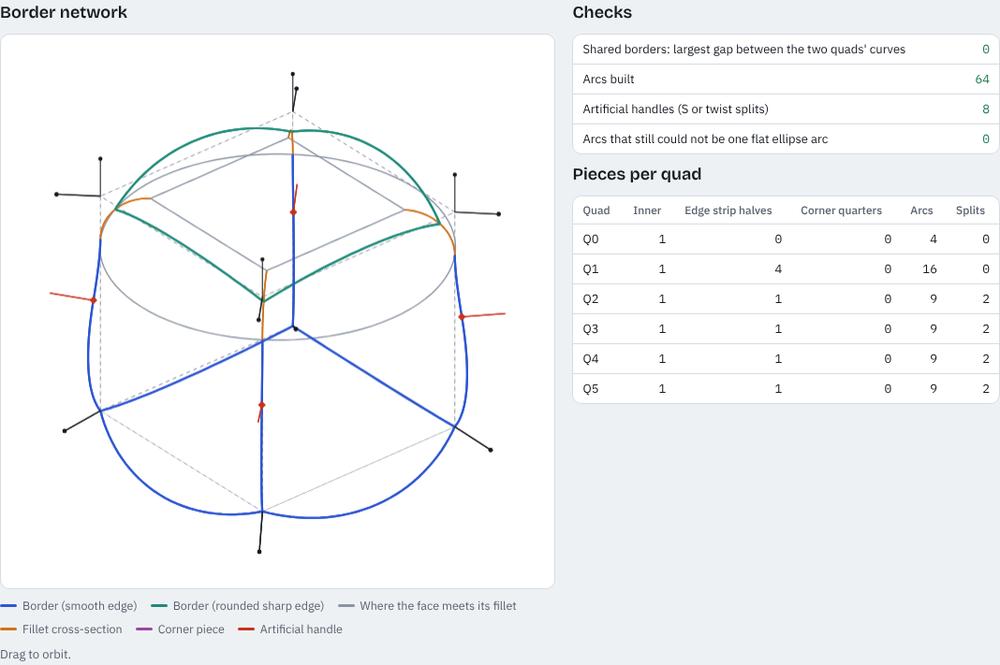
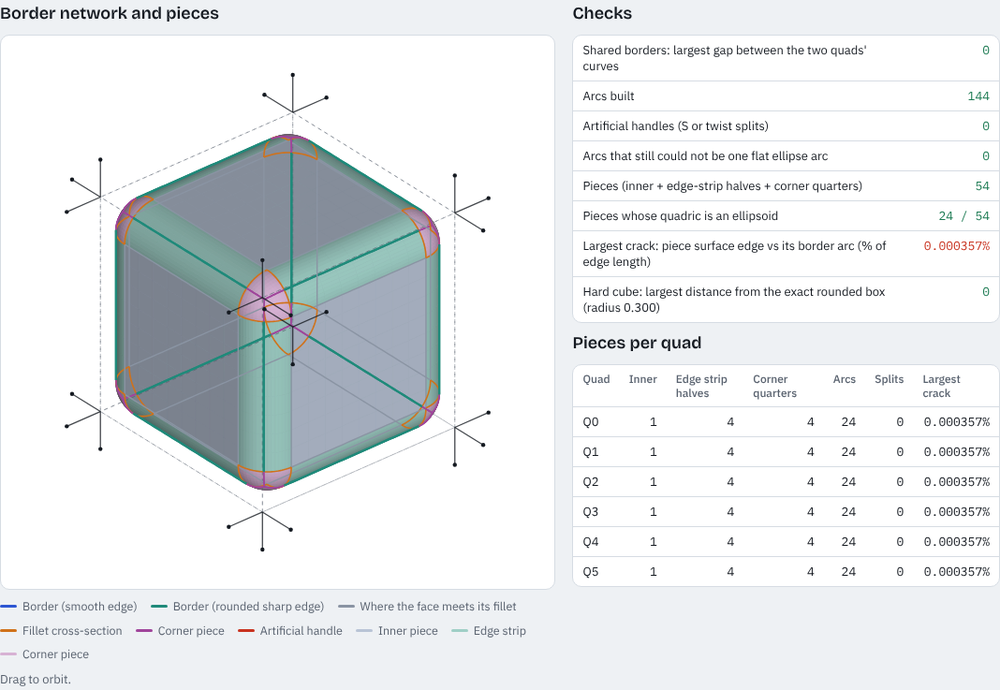
Example 04: fill pieces with one quadric each (step 9b); lab opens in Converted (#14)
Each quad's pieces (inner, edge-strip halves, corner quarters) get one
quadric fitted to their border arcs and corner handles; artificial
handles also split the pieces. Crack = two-way distance between a piece's
surface edge and its border arc. Rounded box, sphere and wave close to the
measurement floor; mixed cube side pieces miss by 36% (border arcs not
compatible with one quadric). Surface lab now defaults to the converted
displacement map. Log, gallery and README updated.

Claude-Session: https://claude.ai/code/session_01JACsrEAfGJwPGrGbmx3fgo

diff --git a/examples/04-handles-arcs.html b/examples/04-handles-arcs.html
@@ -7,13 +7,13 @@
 /* Layout: phone-first. Steps, controls, 3D view + checks; side by side from 900px. Same tokens as the other examples. */
 :root{
   --bg:#eef1f4;--surface:#ffffff;--fg:#151a21;--muted:#59626f;--line:#d6dce3;--accent:#2d56d2;--warn:#c8321f;--good:#1b7a52;
-  --border:#2d56d2;--fillet:#1f8a7a;--contact:#8a94a3;--cross:#d0721a;--corner:#a0459b;--handle:#151a21;--art:#c8321f;
+  --pin:#b9c4d6;--pst:#9fcfc6;--pco:#d7b2d4;--border:#2d56d2;--fillet:#1f8a7a;--contact:#8a94a3;--cross:#d0721a;--corner:#a0459b;--handle:#151a21;--art:#c8321f;
   --f-display:"Bricolage Grotesque",ui-sans-serif,system-ui,sans-serif;
   --f-body:"IBM Plex Sans",ui-sans-serif,system-ui,sans-serif;
   --f-mono:"IBM Plex Mono",ui-monospace,SFMono-Regular,Menlo,monospace;
 }
-@media (prefers-color-scheme:dark){:root:not([data-theme="light"]){--bg:#0e1115;--surface:#161a20;--fg:#e4e8ee;--muted:#98a1ae;--line:#2a313a;--accent:#7f9cff;--warn:#ff5f4a;--good:#5fd0a0;--border:#7f9cff;--fillet:#4fd1bb;--contact:#7d8794;--cross:#f0a050;--corner:#d68ad0;--handle:#e4e8ee;--art:#ff5f4a;color-scheme:dark}}
-:root[data-theme="dark"]{--bg:#0e1115;--surface:#161a20;--fg:#e4e8ee;--muted:#98a1ae;--line:#2a313a;--accent:#7f9cff;--warn:#ff5f4a;--good:#5fd0a0;--border:#7f9cff;--fillet:#4fd1bb;--contact:#7d8794;--cross:#f0a050;--corner:#d68ad0;--handle:#e4e8ee;--art:#ff5f4a;color-scheme:dark}
+@media (prefers-color-scheme:dark){:root:not([data-theme="light"]){--bg:#0e1115;--surface:#161a20;--fg:#e4e8ee;--muted:#98a1ae;--line:#2a313a;--accent:#7f9cff;--warn:#ff5f4a;--good:#5fd0a0;--pin:#4a5568;--pst:#2f6b62;--pco:#6b4569;--border:#7f9cff;--fillet:#4fd1bb;--contact:#7d8794;--cross:#f0a050;--corner:#d68ad0;--handle:#e4e8ee;--art:#ff5f4a;color-scheme:dark}}
+:root[data-theme="dark"]{--pin:#4a5568;--pst:#2f6b62;--pco:#6b4569;--bg:#0e1115;--surface:#161a20;--fg:#e4e8ee;--muted:#98a1ae;--line:#2a313a;--accent:#7f9cff;--warn:#ff5f4a;--good:#5fd0a0;--border:#7f9cff;--fillet:#4fd1bb;--contact:#7d8794;--cross:#f0a050;--corner:#d68ad0;--handle:#e4e8ee;--art:#ff5f4a;color-scheme:dark}
 *,*::before,*::after{box-sizing:border-box}
 body{margin:0;background:var(--bg);color:var(--fg);font-family:var(--f-body);font-size:15px;line-height:1.55}
 .wrap{max-width:1100px;margin:0 auto;padding-inline:16px;padding-block:22px 56px;display:flex;flex-direction:column;gap:22px}
@@ -55,7 +55,7 @@ tr:last-child td{border-bottom:0}
 <a id="back" href="../index.html" hidden style="font:500 13px var(--f-body);color:var(--accent);text-decoration:none">← All steps</a>
 <script>(()=>{const h=location.hostname;if(location.protocol==="file:"||h.endsWith("github.io")||h==="localhost")document.getElementById("back").hidden=false})()</script>
 <header>
-  <div class="eyebrow">Curved quads · step 9a · border network</div>
+  <div class="eyebrow">Curved quads · steps 9a–9b · borders and pieces</div>
   <h1>Handles and Arcs</h1>
 </header>
 
@@ -63,25 +63,25 @@ tr:last-child td{border-bottom:0}
   <li>Every quad corner has a <b>handle</b>: its face-corner normal, not normalized. The direction sets the tangent, and the length sets how far the curve bulges.</li>
   <li>Between two handles runs one <b>ellipse arc</b> (a conic). If the arc would curve back (S) or twist out of a plane, an <b>artificial handle</b> splits it into two arcs.</li>
   <li><b>Sharp edges</b> (different normals on each side) get rounded inside each quad by the <b>blending distance</b>, like a bevel. Each quad computes its own pieces, reading its neighbours' normals only so that shared borders agree.</li>
-  <li>Only the borders are shown here. Filling the pieces comes next (step 9b).</li>
+  <li>Each piece gets <b>one quadric</b>, fitted to its own border arcs and corner handles (step 9b). The <b>crack</b> is the largest gap between the edge of a piece's surface and its border arc. Neighbours share the arcs, so a crack of 0 means no gap.</li>
 </ol>
 
 <section class="ctrls" aria-label="Settings">
   <div class="crow"><span class="clab">Mesh</span><div class="seg" id="g-mesh"><button data-v="0">Smooth cube</button><button data-v="1">Hard cube</button><button data-v="2">Mixed cube</button><button data-v="3">Wave</button></div></div>
   <div class="crow"><span class="clab">Blending</span><div class="slider"><input id="blend" type="range" min="0" max="0.45" step="0.005" value="0.03" aria-label="Blending distance, fraction of edge length"><output id="blendo"></output></div></div>
   <div class="crow"><span class="clab">Normal length</span><div class="seg" id="g-len"><button data-v="0.5">× 0.5</button><button data-v="1">× 1</button><button data-v="1.5">× 1.5</button><button data-v="2">× 2</button></div></div>
-  <div class="crow"><span class="clab">Show</span><div class="seg" id="g-show"><button data-k="handles">Handles</button><button data-k="cage">Cage</button></div></div>
+  <div class="crow"><span class="clab">Show</span><div class="seg" id="g-show"><button data-k="surf">Surfaces</button><button data-k="crackc">Colour by crack</button><button data-k="handles">Handles</button><button data-k="cage">Cage</button></div></div>
   <p class="note">Blending is a fraction of the average edge length at each vertex. Normal length multiplies every source normal, to see how the length changes the bulge.</p>
 </section>
 
 <div class="main">
-  <div class="view"><h2>Border network</h2><canvas id="cv" aria-label="3D view of the arcs between handles. Drag to orbit."></canvas>
-    <div class="legend"><span><span class="ln" style="background:var(--border)"></span>Border (smooth edge)</span><span><span class="ln" style="background:var(--fillet)"></span>Border (rounded sharp edge)</span><span><span class="ln" style="background:var(--contact)"></span>Where the face meets its fillet</span><span><span class="ln" style="background:var(--cross)"></span>Fillet cross-section</span><span><span class="ln" style="background:var(--corner)"></span>Corner piece</span><span><span class="ln" style="background:var(--art)"></span>Artificial handle</span></div>
+  <div class="view"><h2>Border network and pieces</h2><canvas id="cv" aria-label="3D view of the arcs between handles. Drag to orbit."></canvas>
+    <div class="legend"><span><span class="ln" style="background:var(--border)"></span>Border (smooth edge)</span><span><span class="ln" style="background:var(--fillet)"></span>Border (rounded sharp edge)</span><span><span class="ln" style="background:var(--contact)"></span>Where the face meets its fillet</span><span><span class="ln" style="background:var(--cross)"></span>Fillet cross-section</span><span><span class="ln" style="background:var(--corner)"></span>Corner piece</span><span><span class="ln" style="background:var(--art)"></span>Artificial handle</span><span><span class="ln" style="background:var(--pin)"></span>Inner piece</span><span><span class="ln" style="background:var(--pst)"></span>Edge strip</span><span><span class="ln" style="background:var(--pco)"></span>Corner piece</span></div>
     <p class="note">Drag to orbit.</p></div>
   <div class="view"><h2>Checks</h2>
     <div class="tw"><table><tbody id="checks"></tbody></table></div>
     <h2>Pieces per quad</h2>
-    <div class="tw"><table><thead><tr><th>Quad</th><th class="n">Inner</th><th class="n">Edge strip halves</th><th class="n">Corner quarters</th><th class="n">Arcs</th><th class="n">Splits</th></tr></thead><tbody id="qtab"></tbody></table></div>
+    <div class="tw"><table><thead><tr><th>Quad</th><th class="n">Inner</th><th class="n">Edge strip halves</th><th class="n">Corner quarters</th><th class="n">Arcs</th><th class="n">Splits</th><th class="n">Largest crack</th></tr></thead><tbody id="qtab"></tbody></table></div>
     <div class="log" id="log"></div>
   </div>
 </div>
@@ -122,14 +122,59 @@ function arcT(P0,T0,L0,u0,P2,T2,L2,u2,depth){STATS.arcs++;const d=sub(P2,P0),D=l
   const M=add(add(mul(P0,r*r*r),mul(C1,3*r*r*tm)),add(mul(C2,3*r*tm*tm),mul(P2,tm*tm*tm)));
   // its tangent lies in both end planes (P0, T0, M) and (M, T2, P2), so each half is a flat curve and the two halves meet smoothly
   let TM=cross(cross(T0,sub(M,P0)),cross(T2,sub(P2,M)));if(len(TM)<1e-12*D*D*D*D)TM=add(add(mul(sub(C1,P0),r*r),mul(sub(C2,C1),2*r*tm)),mul(sub(P2,C2),tm*tm));if(dot(TM,d)<0)TM=mul(TM,-1);
-  const uM=norm(add(mul(u0,r),mul(u2,tm))),LM=L0*r+L2*tm;STATS.art.push({p:M,n:mul(norm(sub(uM,mul(norm(TM),dot(uM,norm(TM))))),LM)});
-  return arcT(P0,T0,L0,u0,M,TM,LM,uM,1).concat(arcT(M,TM,LM,uM,P2,T2,L2,u2,1))}
+  const uM=norm(add(mul(u0,r),mul(u2,tm))),LM=L0*r+L2*tm,nM=mul(norm(sub(uM,mul(norm(TM),dot(uM,norm(TM))))),LM);STATS.art.push({p:M,n:nM});
+  const h1=arcT(P0,T0,L0,u0,M,TM,LM,uM,1),res=h1.concat(arcT(M,TM,LM,uM,P2,T2,L2,u2,1));res.mid={p:M,n:nM,k:h1.length};return res}
 function evalArc(g,t){if(g.straight)return add(mul(g.P0,1-t),mul(g.P2,t));const r=1-t,b0=r*r,b1=2*g.w*r*t,b2=t*t,s=b0+b1+b2;return mul(add(add(mul(g.P0,b0),mul(g.A,b1)),mul(g.P2,b2)),1/s)}
 const sampleArcs=(segs,n)=>{const out=[];segs.forEach((g,i)=>{for(let k=i?1:0;k<=n;k++)out.push(evalArc(g,k/n))});return out};
 
+// ---------- S rule on pieces: an artificial handle on a side splits the piece too, so each part gets its own ellipsoid ----------
+// Split a single conic exactly at its middle (homogeneous de Casteljau), to give the opposite side a matching point.
+function halveConic(g){if(g.straight){const M=mul(add(g.P0,g.P2),0.5);return[{P0:g.P0,P2:M,straight:true},{P0:M,P2:g.P2,straight:true},M]}
+  const w=g.w,M=evalArc(g,0.5),wn=Math.sqrt((1+w)/2),AL=mul(add(g.P0,mul(g.A,w)),1/(1+w)),AR=mul(add(mul(g.A,w),g.P2),1/(1+w));return[{P0:g.P0,P2:M,A:AL,w:wn},{P0:M,P2:g.P2,A:AR,w:wn},M]}
+function splitSide(sg,hA,hB){// -> {first, second, p, n}; uses the artificial handle if the side has one, else halves the side
+  if(sg.mid)return{first:sg.slice(0,sg.mid.k),second:sg.slice(sg.mid.k),p:sg.mid.p,n:sg.mid.n};
+  if(sg.length!==1)return null;const[a,b,M]=halveConic(sg[0]),e=1e-4,T=norm(sub(evalArc(sg[0],0.5+e),evalArc(sg[0],0.5-e))),u=norm(add(norm(hA),norm(hB))),n=mul(norm(sub(u,mul(T,dot(u,T)))),(len(hA)+len(hB))/2);return{first:[a],second:[b],p:M,n}}
+let UNSUP=0;
+function splitPiece(pc){const S=pc.sides,su=!!(S[0].mid||S[2].mid),sv=!!(S[1].mid||S[3].mid);if(!su&&!sv)return[pc];if(su&&sv){UNSUP++;return[pc]}
+  const h=pc.N;
+  if(su){const a=splitSide(S[0],h[0],h[1]),c=splitSide(S[2],h[2],h[3]);if(!a||!c){UNSUP++;return[pc]}const mid=arc(a.p,a.n,c.p,c.n);
+    return[{kind:pc.kind,P:[pc.P[0],a.p,c.p,pc.P[3]],N:[h[0],a.n,c.n,h[3]],sides:[a.first,mid,c.second,S[3]]},{kind:pc.kind,P:[a.p,pc.P[1],pc.P[2],c.p],N:[a.n,h[1],h[2],c.n],sides:[a.second,S[1],c.first,revArc(mid)]}]}
+  const b=splitSide(S[1],h[1],h[2]),d=splitSide(S[3],h[3],h[0]);if(!b||!d){UNSUP++;return[pc]}const mid=arc(b.p,b.n,d.p,d.n);
+  return[{kind:pc.kind,P:[pc.P[0],pc.P[1],b.p,d.p],N:[h[0],h[1],b.n,d.n],sides:[S[0],b.first,mid,d.second]},{kind:pc.kind,P:[d.p,b.p,pc.P[2],pc.P[3]],N:[d.n,b.n,h[2],h[3]],sides:[revArc(mid),b.second,S[2],d.first]}]}
+const revArc=sg=>sg.slice().reverse().map(g=>g.straight?{P0:g.P2,P2:g.P0,straight:true}:{P0:g.P2,P2:g.P0,A:g.A,w:g.w});
+
+// ---------- 9b: one quadric per piece, fitted to its border arcs ----------
+// Hard: the piece's distinct corners. Soft: points along its 4 border arcs (Q = 0) and its corner handle directions (gradient parallel).
+// Scale fixed by trace(A) = 1. One fixed-size linear solve, no iteration.
+const WARC=1,ARCS=5;
+function fitPiece(pc){const U=[],UN=[];pc.P.forEach((p,i)=>{if(!U.some(u=>len(sub(u,p))<1e-12)){U.push(p);UN.push(pc.N[i])}});
+  const c0=mul(U.reduce((a,b)=>add(a,b),[0,0,0]),1/U.length),sc=U.length/U.reduce((a,u)=>a+len(sub(u,c0)),0)||1,loc=x=>mul(sub(x,c0),sc);
+  const row=x=>[x[0]*x[0],x[1]*x[1],x[2]*x[2],2*x[0]*x[1],2*x[0]*x[2],2*x[1]*x[2],x[0],x[1],x[2],1],grow=(x,t)=>[2*x[0]*t[0],2*x[1]*t[1],2*x[2]*t[2],2*(x[1]*t[0]+x[0]*t[1]),2*(x[2]*t[0]+x[0]*t[2]),2*(x[2]*t[1]+x[1]*t[2]),t[0],t[1],t[2],0];
+  const M=[];UN.forEach((n,i)=>{const u=norm(n),ax=Math.abs(u[0])<0.9?[1,0,0]:[0,1,0],t1=norm(cross(u,ax)),t2=cross(u,t1),L=loc(U[i]);M.push(grow(L,t1),grow(L,t2))});
+  pc.sides.forEach(sg=>{if(!sg.length)return;const pts=sampleArcs(sg,ARCS+1);for(let k=1;k<pts.length-1;k++)M.push(row(loc(pts[k])).map(v=>v*WARC))});
+  const H=U.map(u=>row(loc(u))).concat([[1,1,1,0,0,0,0,0,0,0]]),n=10+H.length,K=[];for(let i=0;i<n;i++)K.push(new Array(n+1).fill(0));
+  for(let i=0;i<10;i++){for(let j=0;j<10;j++){let v=0;M.forEach(r=>v+=r[i]*r[j]);K[i][j]=v+(i===j?1e-9:0)}H.forEach((h,hi)=>{K[i][10+hi]=h[i];K[10+hi][i]=h[i]})}K[n-1][n]=1;
+  for(let c=0;c<n;c++){let p=c;for(let r=c+1;r<n;r++)if(Math.abs(K[r][c])>Math.abs(K[p][c]))p=r;[K[c],K[p]]=[K[p],K[c]];if(Math.abs(K[c][c])<1e-300)continue;for(let r=0;r<n;r++)if(r!==c){const f=K[r][c]/K[c][c];if(f)for(let k=c;k<=n;k++)K[r][k]-=f*K[c][k]}}
+  const q=K.slice(0,10).map((r,i)=>r[n]/r[i]),A=[[q[0],q[3],q[4]],[q[3],q[1],q[5]],[q[4],q[5],q[2]]],g=[q[6],q[7],q[8]],k=q[9];
+  const Ax=x=>[dot(A[0],x),dot(A[1],x),dot(A[2],x)],Qf=x=>dot(x,Ax(x))+dot(g,x)+k,grad=x=>add(mul(Ax(x),2),g),det=dot(A[0],cross(A[1],A[2])),m1=A[0][0],m2=A[0][0]*A[1][1]-A[0][1]*A[0][1];
+  let cen=null;if(Math.abs(det)>1e-9){const inv=[cross(A[1],A[2]),cross(A[2],A[0]),cross(A[0],A[1])].map(r=>mul(r,1/det));cen=mul([dot(inv[0],g),dot(inv[1],g),dot(inv[2],g)],-0.5)}
+  const qc=cen?Qf(cen):0,ell=!!cen&&((m1>0&&m2>0&&det>0)||(m1<0&&m2>0&&det<0))&&qc*m1<0,dir=norm(UN.reduce((a,b)=>add(a,norm(b)),[0,0,0]));
+  const LP=pc.P.map(loc);let miss=0;
+  // piece point: bilinear base of its 4 corners, pushed onto the quadric (from the centre for an ellipsoid, else along the averaged handle direction)
+  pc.eval=(u,v)=>{const w=[(1-u)*(1-v),u*(1-v),u*v,(1-u)*v];let p=[0,0,0];for(let i=0;i<4;i++)p=add(p,mul(LP[i],w[i]));let X=p;
+    if(ell){const d=sub(p,cen),a=dot(d,Ax(d)),r=-qc/a;if(a!==0&&r>0)X=add(cen,mul(d,Math.sqrt(r)));else miss++}
+    else{const a=dot(dir,Ax(dir)),b=dot(grad(p),dir),c=Qf(p);let t=null;if(Math.abs(c)<1e-12)t=0;else if(Math.abs(a)<1e-12){if(Math.abs(b)>1e-15)t=-c/b;else if(Math.abs(c)<1e-12)t=0}else{let D=b*b-4*a*c;if(D<0&&D>-1e-9*(b*b+1e-30))D=0;if(D>=0){const r1=(-b+Math.sqrt(D))/(2*a),r2=(-b-Math.sqrt(D))/(2*a);t=Math.abs(r1)<Math.abs(r2)?r1:r2}}if(t===null)miss++;else X=add(p,mul(dir,t))}
+    return add(c0,mul(X,1/sc))};
+  pc.ell=ell;pc.missCount=()=>miss;
+  // crack: two-way distance between each side of the piece's surface and its border arc
+  let crack=0;const segDist=(p,a,b)=>{const ab=sub(b,a),t=Math.max(0,Math.min(1,dot(sub(p,a),ab)/(dot(ab,ab)||1)));return len(sub(p,add(a,mul(ab,t))))},polyDist=(p,pl)=>{let m=1e9;for(let i=1;i<pl.length;i++)m=Math.min(m,segDist(p,pl[i-1],pl[i]));return m};
+  const sidePt=(k,t)=>k===0?pc.eval(t,0):k===1?pc.eval(1,t):k===2?pc.eval(1-t,1):pc.eval(0,1-t);
+  pc.sides.forEach((sg,kk)=>{if(!sg.length)return;const A1=sampleArcs(sg,400),B=[];for(let i=0;i<=200;i++)B.push(sidePt(kk,i/200));B.forEach(p=>crack=Math.max(crack,polyDist(p,A1)));A1.forEach(p=>crack=Math.max(crack,polyDist(p,B)))});
+  pc.crack=crack}
+
 // ---------- the per-quad network ----------
 const key=p=>p.map(x=>Math.round(x*1e6)).join(',');
-function build(Q,beta){STATS={arcs:0,splits:0,fail:0,art:[]};
+function build(Q,beta){STATS={arcs:0,splits:0,fail:0,art:[]};UNSUP=0;
   const vtx=new Map(),edges=new Map();
   Q.forEach((q,qi)=>{for(let i=0;i<4;i++){const k=key(q.x[i]);if(!vtx.has(k))vtx.set(k,{X:q.x[i],corners:[],nbr:new Set()});vtx.get(k).corners.push({qi,i});const j=(i+1)%4,ka=key(q.x[i]),kb=key(q.x[j]);vtx.get(k).nbr.add(kb);const ek=ka<kb?ka+'|'+kb:kb+'|'+ka;if(!edges.has(ek))edges.set(ek,[]);edges.get(ek).push({qi,i})}});
   Q.forEach(q=>{for(let i=0;i<4;i++){const j=(i+3)%4;vtx.get(key(q.x[i])).nbr.add(key(q.x[j]))}});
@@ -148,32 +193,49 @@ function build(Q,beta){STATS={arcs:0,splits:0,fail:0,art:[]};
   const endInfo=(qi,i,j,atI)=>{const q=Q[qi],c=atI?i:j,V=vtx.get(key(q.x[c])),nA=q.n[c],nB=nbAt(qi,i,j,atI),uA=norm(nA),contact=V.k<=1?q.x[c]:add(V.c,mul(uA,V.r));
     if(nB&&!same(nA,nB)){const uB=norm(nB),m=norm(add(uA,uB));return{sharp:true,p:add(V.c,mul(m,V.r)),n:mul(m,(len(nA)+len(nB))/2),contact,nA,V}}
     return{sharp:false,p:contact,n:nA,contact,nA,V}};
-  const out=Q.map((q,qi)=>{const P={qi,border:[],contact:[],cross:[],corner:[],inner:1,strips:0,corners:0};
-    for(let i=0;i<4;i++){const j=(i+1)%4,a=endInfo(qi,i,j,true),b=endInfo(qi,i,j,false);
-      P.border.push({segs:arc(a.p,a.n,b.p,b.n),sharp:a.sharp||b.sharp,i});
-      if(a.sharp||b.sharp){P.strips++;P.contact.push(arc(a.contact,a.nA,b.contact,b.nA));if(a.sharp)P.cross.push(arc(a.contact,a.nA,a.p,a.n));if(b.sharp)P.cross.push(arc(b.contact,b.nA,b.p,b.n))}}
-    // corner quarters: from each sharp edge end at this corner to the vertex's corner point
-    for(let i=0;i<4;i++){const j=(i+1)%4,h=(i+3)%4,a=endInfo(qi,i,j,true),z=endInfo(qi,h,i,false);if(a.V.k<3)continue;let any=false;
-      [a,z].forEach(e=>{if(e.sharp&&len(sub(e.p,e.V.corner))>1e-12){P.corner.push(arc(e.p,e.n,e.V.corner,e.V.cornerN));any=true}});if(any)P.corners++}
+  const rev=sg=>{const r=sg.slice().reverse().map(g=>g.straight?{P0:g.P2,P2:g.P0,straight:true,fail:g.fail}:{P0:g.P2,P2:g.P0,A:g.A,w:g.w});if(sg.mid)r.mid={p:sg.mid.p,n:sg.mid.n,k:sg.length-sg.mid.k};return r};
+  const out=Q.map((q,qi)=>{const P={qi,border:[],contact:[],cross:[],corner:[],pieces:[],inner:1,strips:0,corners:0};
+    const E=[],C=[];for(let i=0;i<4;i++){const j=(i+1)%4;E.push({a:endInfo(qi,i,j,true),b:endInfo(qi,i,j,false)})}
+    // arcs, built once and shared by the pieces that touch them
+    E.forEach((e,i)=>{const{a,b}=e;e.border=arc(a.p,a.n,b.p,b.n);P.border.push({segs:e.border,sharp:a.sharp||b.sharp,i});e.sharp=a.sharp||b.sharp;
+      e.contact=e.sharp?arc(a.contact,a.nA,b.contact,b.nA):e.border;if(e.sharp)P.contact.push(e.contact);
+      e.crossA=a.sharp?arc(a.contact,a.nA,a.p,a.n):[];e.crossB=b.sharp?arc(b.contact,b.nA,b.p,b.n):[];if(a.sharp)P.cross.push(e.crossA);if(b.sharp)P.cross.push(e.crossB)});
+    // inner piece: the four contact points, bounded by contact arcs (sharp edges) or the border (smooth edges)
+    P.pieces.push({kind:0,P:E.map(e=>e.a.contact),N:E.map(e=>e.a.nA),sides:E.map(e=>e.contact)});
+    // edge strip half: between this face's contact arc and the shared border
+    E.forEach(e=>{if(!e.sharp)return;P.strips++;const{a,b}=e;P.pieces.push({kind:1,P:[a.p,b.p,b.contact,a.contact],N:[a.n,b.n,b.nA,a.nA],sides:[e.border,rev(e.crossB),rev(e.contact),e.crossA]})});
+    // corner quarter: contact point, the two edge ends at this corner, and the vertex's corner point
+    for(let i=0;i<4;i++){const h=(i+3)%4,a=E[i].a,z=E[h].b,V=a.V;if(V.k<3)continue;
+      const toC=e=>len(sub(e.p,V.corner))>1e-12?arc(e.p,e.n,V.corner,V.cornerN):[],ca=toC(a),cz=toC(z);if(!ca.length&&!cz.length)continue;
+      if(ca.length)P.corner.push(ca);if(cz.length)P.corner.push(cz);P.corners++;
+      P.pieces.push({kind:2,P:[a.contact,a.p,V.corner,z.p],N:[a.nA,a.n,V.cornerN,z.n],sides:[E[i].crossA,ca,rev(cz),rev(E[h].crossB)]})}
+    P.pieces=P.pieces.filter(pc=>new Set(pc.P.map(key)).size>=3).flatMap(splitPiece);
+    P.pieces.forEach(pc=>{pc.qi=qi;fitPiece(pc)});
     return P});
   // check: both quads on an edge must produce the same border curve
   let mis=0;edges.forEach(l=>{if(l.length!==2)return;const[A,B]=l,pa=sampleArcs(out[A.qi].border[A.i].segs,16),pb=sampleArcs(out[B.qi].border[B.i].segs,16).reverse();if(pa.length!==pb.length){mis=Math.max(mis,Infinity);return}pa.forEach((p,k)=>mis=Math.max(mis,len(sub(p,pb[k]))))});
-  return{out,vtx,mis,stats:STATS}}
+  let el=0,ec=0;Q.forEach(q=>{for(let i=0;i<4;i++){el+=len(sub(q.x[(i+1)%4],q.x[i]));ec++}});
+  return{out,vtx,mis,stats:STATS,edgeLen:el/ec}}
 
 // rounded-box check for the hard cube: every network point should lie on the exact rounded box
 function roundedBoxDist(p,r){const h=1-r,q=p.map(x=>Math.abs(x)-h),o=Math.hypot(Math.max(q[0],0),Math.max(q[1],0),Math.max(q[2],0));return o+Math.min(Math.max(q[0],q[1],q[2]),0)-r}
 
 // ---------- view ----------
-let st={mesh:1,beta:0.03,lm:1,handles:true,cage:true,yaw:0.7,pitch:0.55},R=null;
+let st={mesh:1,beta:0.03,lm:1,handles:true,cage:true,surf:true,crackc:false,yaw:0.7,pitch:0.55},R=null;
 try{const s=JSON.parse(localStorage.getItem('ha')||'null');if(s)Object.assign(st,s)}catch(e){}
 const save=()=>{try{localStorage.setItem('ha',JSON.stringify(st))}catch(e){}};
 const cv=document.getElementById('cv'),ctx=cv.getContext('2d');let C={};
-function readC(){const g=getComputedStyle(document.documentElement);['fg','muted','line','border','fillet','contact','cross','corner','handle','art','surface'].forEach(k=>C[k]=g.getPropertyValue('--'+k).trim())}
+function readC(){const g=getComputedStyle(document.documentElement);['fg','muted','line','border','fillet','contact','cross','corner','handle','art','surface','pin','pst','pco','good','warn'].forEach(k=>C[k]=g.getPropertyValue('--'+k).trim())}
 function run(){try{const Q=source(st.mesh).map(q=>({x:q.x,n:q.n.map(n=>mul(n,st.lm))}));R=build(Q,st.beta);R.Q=Q;draw();checks()}catch(e){log('ERROR '+(e.stack||e),true)}}
 function draw(){const dp=window.devicePixelRatio||1,W=Math.round(cv.clientWidth*dp);if(!W)return;if(cv.width!==W){cv.width=W;cv.height=W}ctx.clearRect(0,0,W,W);
   const cy=Math.cos(st.yaw),sy=Math.sin(st.yaw),cp=Math.cos(st.pitch),sp=Math.sin(st.pitch),s=W/(st.mesh===3?5.2:4.4);
   const P=p=>{const x=p[0]*cy-p[1]*sy,y1=p[0]*sy+p[1]*cy,z=p[2];return[W/2+x*s,W/2-(y1*sp+z*cp)*s]};
   const poly=(pts,col,lw,alpha=1)=>{if(pts.length<2)return;ctx.globalAlpha=alpha;ctx.strokeStyle=col;ctx.lineWidth=lw*dp;ctx.beginPath();pts.forEach((p,i)=>{const q=P(p);i?ctx.lineTo(q[0],q[1]):ctx.moveTo(q[0],q[1])});ctx.stroke();ctx.globalAlpha=1};
+  if(st.surf){const rgb=h=>{h=h.replace('#','');return[0,2,4].map(i=>parseInt(h.slice(i,i+2),16))},base=[rgb(C.pin),rgb(C.pst),rgb(C.pco)],good=rgb(C.good),bad=rgb(C.warn),Lt=norm([-0.4,-0.8,0.5]),cyR=Math.cos(st.yaw),syR=Math.sin(st.yaw),depth=p=>{const y1=p[0]*syR+p[1]*cyR;return y1*Math.cos(st.pitch)-p[2]*Math.sin(st.pitch)},tris=[],G=8;
+    R.out.forEach(o=>o.pieces.forEach(pc=>{const pts=[];for(let j=0;j<=G;j++){pts[j]=[];for(let i=0;i<=G;i++)pts[j][i]=pc.eval(i/G,j/G)}
+      const t=Math.min(1,pc.crack/(0.01*R.edgeLen)),cc=st.crackc?good.map((v,k)=>v+(bad[k]-v)*t):base[pc.kind];
+      for(let j=0;j<G;j++)for(let i=0;i<G;i++){const q=[pts[j][i],pts[j][i+1],pts[j+1][i+1],pts[j+1][i]],nn=norm(cross(sub(q[2],q[0]),sub(q[3],q[1]))),sh=0.45+0.55*Math.abs(dot(nn,Lt));tris.push({q,z:q.reduce((a,p)=>a+depth(p),0)/4,col:'rgb('+cc.map(v=>Math.round(v*sh)).join(',')+')'})}}));
+    tris.sort((a,b)=>b.z-a.z);tris.forEach(t=>{ctx.fillStyle=t.col;ctx.strokeStyle=t.col;ctx.lineWidth=0.6;ctx.beginPath();t.q.forEach((p,i)=>{const s2=P(p);i?ctx.lineTo(s2[0],s2[1]):ctx.moveTo(s2[0],s2[1])});ctx.closePath();ctx.fill();ctx.stroke()})}
   if(st.cage){ctx.setLineDash([4*dp,4*dp]);R.Q.forEach(q=>poly(q.x.concat([q.x[0]]),C.muted,1,0.45));ctx.setLineDash([])}
   R.out.forEach(o=>{o.contact.forEach(sg=>poly(sampleArcs(sg,24),C.contact,1.4));o.cross.forEach(sg=>poly(sampleArcs(sg,16),C.cross,1.6));o.corner.forEach(sg=>poly(sampleArcs(sg,16),C.corner,1.6));o.border.forEach(b=>poly(sampleArcs(b.segs,32),b.sharp?C.fillet:C.border,2.2))});
   if(st.handles){R.Q.forEach(q=>q.x.forEach((x,i)=>{const t=add(x,mul(q.n[i],0.35));poly([x,t],C.handle,1.3,0.8);const e=P(t);ctx.fillStyle=C.handle;ctx.beginPath();ctx.arc(e[0],e[1],2.2*dp,0,7);ctx.fill()}));
@@ -181,10 +243,15 @@ function draw(){const dp=window.devicePixelRatio||1,W=Math.round(cv.clientWidth*
 function checks(){const rows=[],fmt=x=>x===Infinity?'shape mismatch':x<1e-12?'0':x.toExponential(2),S=R.stats;
   rows.push(['Shared borders: largest gap between the two quads\' curves',fmt(R.mis),R.mis<1e-9]);
   rows.push(['Arcs built',S.arcs,true]);rows.push(['Artificial handles (S or twist splits)',S.splits,true]);rows.push(['Arcs that still could not be one flat ellipse arc',S.fail,S.fail===0]);
+  const pcs=R.out.flatMap(o=>o.pieces),mc=Math.max(...pcs.map(p=>p.crack)),pct=100*mc/R.edgeLen,misses=pcs.reduce((a,p)=>a+p.missCount(),0);
+  rows.push(['Pieces (inner + edge-strip halves + corner quarters)',pcs.length,true]);rows.push(['Pieces whose quadric is an ellipsoid',pcs.filter(p=>p.ell).length+' / '+pcs.length,true]);
+  rows.push(['Largest crack: piece surface edge vs its border arc (% of edge length)',pct<1e-7?'0':pct.toPrecision(3)+'%',pct<1e-6]);
+  if(misses)rows.push(['Surface points where the push missed the quadric',misses,false]);
+  if(UNSUP)rows.push(['Pieces that needed a split both ways (not supported yet)',UNSUP,false]);
   if(st.mesh===1){let mx=0;const r=2*st.beta;R.out.forEach(o=>[...o.border.map(b=>b.segs),...o.contact,...o.cross,...o.corner].forEach(sg=>sampleArcs(sg,24).forEach(p=>mx=Math.max(mx,Math.abs(roundedBoxDist(p,r))))));rows.push(['Hard cube: largest distance from the exact rounded box (radius '+r.toFixed(3)+')',fmt(mx),mx<1e-9])}
   if(st.mesh===0){let mx=0;R.out.forEach(o=>o.border.forEach(b=>sampleArcs(b.segs,24).forEach(p=>mx=Math.max(mx,Math.abs(len(p)-Math.sqrt(3))))));rows.push(['Smooth cube: largest distance of the borders from the sphere of radius √3',fmt(mx),mx<1e-9])}
   document.getElementById('checks').innerHTML=rows.map(r=>'<tr><td>'+r[0]+'</td><td class="n '+(r[2]?'ok':'bad')+'">'+r[1]+'</td></tr>').join('');
-  document.getElementById('qtab').innerHTML=R.out.map(o=>'<tr><td>Q'+o.qi+'</td><td class="n">'+o.inner+'</td><td class="n">'+o.strips+'</td><td class="n">'+o.corners+'</td><td class="n">'+[...o.border.map(b=>b.segs),...o.contact,...o.cross,...o.corner].reduce((a,sg)=>a+sg.length,0)+'</td><td class="n">'+o.border.reduce((a,b)=>a+Math.max(0,b.segs.length-1),0)+'</td></tr>').join('')}
+  document.getElementById('qtab').innerHTML=R.out.map(o=>'<tr><td>Q'+o.qi+'</td><td class="n">'+o.inner+'</td><td class="n">'+o.strips+'</td><td class="n">'+o.corners+'</td><td class="n">'+[...o.border.map(b=>b.segs),...o.contact,...o.cross,...o.corner].reduce((a,sg)=>a+sg.length,0)+'</td><td class="n">'+o.border.reduce((a,b)=>a+Math.max(0,b.segs.length-1),0)+'</td><td class="n">'+(()=>{const c=100*Math.max(...o.pieces.map(p=>p.crack))/R.edgeLen;return c<1e-7?'0':c.toPrecision(3)+'%'})()+'</td></tr>').join('')}
 
 // controls
 function seg(id,k){const g=document.getElementById(id),bs=[...g.querySelectorAll('button')],sync=()=>bs.forEach(b=>b.classList.toggle('on',String(st[k])===b.dataset.v));bs.forEach(b=>b.onclick=()=>{st[k]=+b.dataset.v;sync();save();run()});sync()}

diff --git a/examples/00-curved-quad-lab.html b/examples/00-curved-quad-lab.html
@@ -75,7 +75,7 @@ dt{color:var(--muted)}dd{margin:0;min-width:0}
   <p class="note">Target = Catmull-Clark level 4 plus a stand-in baked map (2×2 bumps per quad, zero along quad edges) pushed along the subdivided surface's normal. <b>Map as baked</b> applies that scalar map to each base along its own normal. <b>Converted</b> adds the vector map (target − base at the same UV). Error = distance to the target as % of the average cage edge. Drag a view to rotate all four.</p>
   <div class="ctrls">
     <div class="seg" role="group" aria-label="Mesh"><button id="sc" class="on">Cube</button><button id="sw">Wave</button></div>
-    <div class="seg" role="group" aria-label="Displacement"><button id="m0">No map</button><button id="m1" class="on">Map as baked</button><button id="m2">Converted</button></div>
+    <div class="seg" role="group" aria-label="Displacement"><button id="m0">No map</button><button id="m1">Map as baked</button><button id="m2" class="on">Converted</button></div>
     <div class="seg" role="group" aria-label="Cage"><button id="cg" class="on">Cage on</button></div>
   </div>
   <div class="grid">
@@ -388,7 +388,7 @@ function edgeLen(m){let s=0,c=0;m.f.forEach(q=>{for(let k=0;k<4;k++){s+=len(sub(
 function build(m){const TG=truth(m),L=edgeLen(m),A=0.12*L,d=(u,v)=>A*Math.sin(2*Math.PI*u)*Math.sin(2*Math.PI*v),N=vnorm(m);const res=[];
 for(let mode=0;mode<3;mode++){res[mode]=[];for(let t=0;t<6;t++){const quads=[],qi=[];let mx=0,sm=0,ct=0;m.f.forEach((q,fi)=>{const X=q.map(i=>m.v[i]),Nn=q.map(i=>N[i]);const ev=t===0?nagata(X,Nn):t===1?phong(X,Nn):t===2?pn(X,Nn):t===4?quadric(X,Nn,pn(X,Nn)(0.5,0.5)):t===5?quadricS(X,Nn):null;if(ev&&ev.info)qi.push(ev.info);const G=[];for(let j=0;j<=R;j++){G[j]=[];for(let i=0;i<=R;i++){const u=i/R,v=j/R,tr=TG[fi][j][i],T=add(tr.x,mul(tr.n,d(u,v)));let P;if(t===3)P=mode===0?tr.x:T;else if(mode===2)P=T;else{const B=ev(u,v);if(mode===0)P=B;else{const h=1e-3,n=norm(cross(sub(ev(u+h,v),ev(u-h,v)),sub(ev(u,v+h),ev(u,v-h))));P=add(B,mul(n,d(u,v)))}}const e=len(sub(P,T))/L*100;mx=Math.max(mx,e);sm+=e;ct++;G[j][i]=P}}for(let j=0;j<R;j++)for(let i=0;i<R;i++)quads.push([G[j][i],G[j][i+1],G[j+1][i+1],G[j+1][i]])});res[mode][t]={q:quads,mx,mean:sm/ct,qi}}res[mode][6]=mode===2?{...res[mode][5],qi:[]}:trimBuild(m,mode,TG,L,d)}return res}
 const COL=[[29,158,117],[127,119,221],[216,90,48],[212,83,126],[58,134,200],[176,125,18],[46,139,122]];
-let yaw=0.6,pitch=0.5,cage=true,mode=1,mesh=cube(),RES=build(mesh);const cvs=[0,1,2,3,4,5,6].map(i=>document.getElementById('c'+i));
+let yaw=0.6,pitch=0.5,cage=true,mode=2,mesh=cube(),RES=build(mesh);const cvs=[0,1,2,3,4,5,6].map(i=>document.getElementById('c'+i));
 function stats(){for(let t=0;t<7;t++){const r=RES[mode][t];let x='';if(r.qi.length){const pc=r.qi.reduce((s,i)=>s+(i.pieces||1),0),sp=r.qi.filter(i=>i.pieces>1).length,e=r.qi.reduce((s,i)=>s+(i.ellN??(i.ell?1:0)),0),a=Math.max(...r.qi.map(i=>i.ang)),ms=r.qi.reduce((s,i)=>s+i.miss,0);x=(t===5?' · '+sp+' quads split → '+pc+' pieces':'')+' · normals off ≤ '+a.toFixed(1)+'° · '+e+'/'+pc+' ellipsoids'+(ms?' · '+ms+' misses':'')}if(r.trim){const T=r.trim;x=' · '+T.pieces+' pieces, '+T.shared+' shared sides, '+T.open+' open · '+(100*T.lost/T.total).toFixed(1)+'% of grid owned by a neighbour · '+T.edgeHits+' margin hits'}else if(t===6)x=' · converted map ignores the base'
 document.getElementById('e'+t).textContent='Error max '+r.mx.toFixed(1)+'% · mean '+r.mean.toFixed(1)+'%'+x}}
 function render(){const cy=Math.cos(yaw),sy=Math.sin(yaw),cp=Math.cos(pitch),sp=Math.sin(pitch);const rot=p=>{const x=p[0]*cy-p[1]*sy,y1=p[0]*sy+p[1]*cy,z=p[2];return[x,y1*cp-z*sp,y1*sp+z*cp]};const Lt=norm([-0.4,-0.8,0.5]);const fg=getComputedStyle(document.body).color;

diff --git a/index.html b/index.html
@@ -104,7 +104,7 @@ code{font-family:var(--f-mono);font-size:.92em}
   <li><span class="num">8–9</span><div class="body">
     <h2>Handles and arcs <span class="tag current">current</span></h2>
     <p class="q">Normals as handles (direction = tangent, length = bulge), one ellipse arc between every two handles, sharp edges rounded inside each quad.</p>
-    <ul class="find"><li>Shared borders match exactly on every edge.</li><li>Hard cube → an exact rounded box. Smooth cube → arcs exactly on the sphere.</li><li>S-curves and twists split at an artificial handle, with 0 failures.</li><li>Next: fill each piece with an ellipsoid that follows its arcs.</li></ul>
+    <ul class="find"><li>Shared borders match exactly on every edge.</li><li>Hard cube → an exact rounded box. Smooth cube → arcs exactly on the sphere.</li><li>S-curves and twists split at an artificial handle, with 0 failures.</li><li>Pieces filled with one quadric each: rounded box, sphere and wave close to the measurement floor (wave 0.0025%). The mixed cube's side pieces miss by 36%: their 4 arcs don't fit one quadric. Open.</li></ul>
     <div class="links"><a class="btn" href="examples/04-handles-arcs.html">Open handles and arcs</a></div></div></li>
 </ol>
 

diff --git a/docs/rnd-log.md b/docs/rnd-log.md
@@ -219,6 +219,32 @@ Checks (all closed form, every mesh and setting tried):
 
 Next (9b): fill each piece with an ellipsoid that follows its border arcs, then measure the cracks.
 
+## 9b. Pieces: one quadric per piece, fitted to its border arcs (example 04)
+
+- **Pieces per quad:** an inner piece, an edge-strip half per sharp edge, and a corner quarter per sharp vertex. Zero-size pieces (no blending) are skipped.
+- **S rule on pieces:** an artificial handle on a side also splits the piece, so each part gets its own ellipsoid. If the opposite side has no handle, its conic is cut exactly in the middle (homogeneous de Casteljau) to give a matching point. A piece that needs a split in both directions isn't supported yet and is counted.
+- **Fit:**
+  - Hard constraints: the piece's corners.
+  - Least-squares targets: 5 points along each border arc (Q = 0) and the corner handle directions.
+  - Scale fixed by trace(A) = 1. One fixed-size solve.
+  - The piece surface is its bilinear base, pushed onto the quadric (from the centre for ellipsoids, else along the averaged handle direction).
+- **Crack:** the largest two-way distance between the edge of a piece's surface and its border arc. Neighbours share the arcs, so this bounds the gap between pieces. Values under 0.001% are the measurement floor (dense polylines).
+
+Measured (blending 3%):
+
+| Mesh | Length × 1 | Length × 2 |
+|---|---|---|
+| Smooth cube | 6 pieces, all ellipsoids (the sphere), crack 0.00054% (floor) | crack 21.9%, push misses |
+| Hard cube | 54 pieces (rounded box), crack 0.00048% (floor) | crack 0.309%, push misses |
+| Wave | 16 pieces (S-split), crack 0.0025% | 0.0049% |
+| Mixed cube | 18 pieces, crack **36.2%** | 52.1% |
+
+**Finding:** a piece has 4 border arcs, and one quadric can hold all 4 only when they're compatible (two-point rule). Box, sphere and wave borders are compatible, or nearly. On the mixed cube's lower side pieces (diagonal handles below, horizontal above) they aren't, and the best single quadric misses by 36% of an edge. Lengths other than 1 hit the same wall.
+
+**Open (asked):** how to fill pieces whose border arcs don't fit one quadric.
+
+Also: the surface lab (example 00) now opens in Converted displacement mode.
+
 ## Prior art
 
 Collected from memory at first. Step 7 checked the shared-edge part against abstracts and citing papers.

diff --git a/README.md b/README.md
@@ -49,8 +49,8 @@ Two conics share one quadric only if they meet twice, so one quadric per quad ca
 
 ### 8–9 · Handles and arcs — [Preview](https://htmlpreview.github.io/?https://github.com/Zieviox/curved-quad-mapping/blob/main/examples/04-handles-arcs.html) · [Source](examples/04-handles-arcs.html)
 
-Face-corner normals as handles (direction = tangent, length = bulge), one ellipse arc between every two handles, and sharp edges rounded inside each quad by a blending distance. Shared borders match exactly. The hard cube becomes an exact rounded box, and the smooth cube's arcs lie exactly on the sphere.
+Face-corner normals as handles (direction = tangent, length = bulge), one ellipse arc between every two handles, and sharp edges rounded inside each quad by a blending distance. Shared borders match exactly. The hard cube becomes an exact rounded box, and the smooth cube's arcs lie exactly on the sphere. Each piece is then filled with one quadric (step 9b): compatible borders close (cube, sphere, wave), incompatible ones don't yet (mixed cube, 36%).
 
-![Handles and arcs: mixed cube with a rounded top edge](docs/img/04-handles-arcs.png)
+![Handles and arcs: hard cube filled as a rounded box](docs/img/04-handles-arcs.png)
 
 Details and numbers are in the [R&D log](docs/rnd-log.md).
